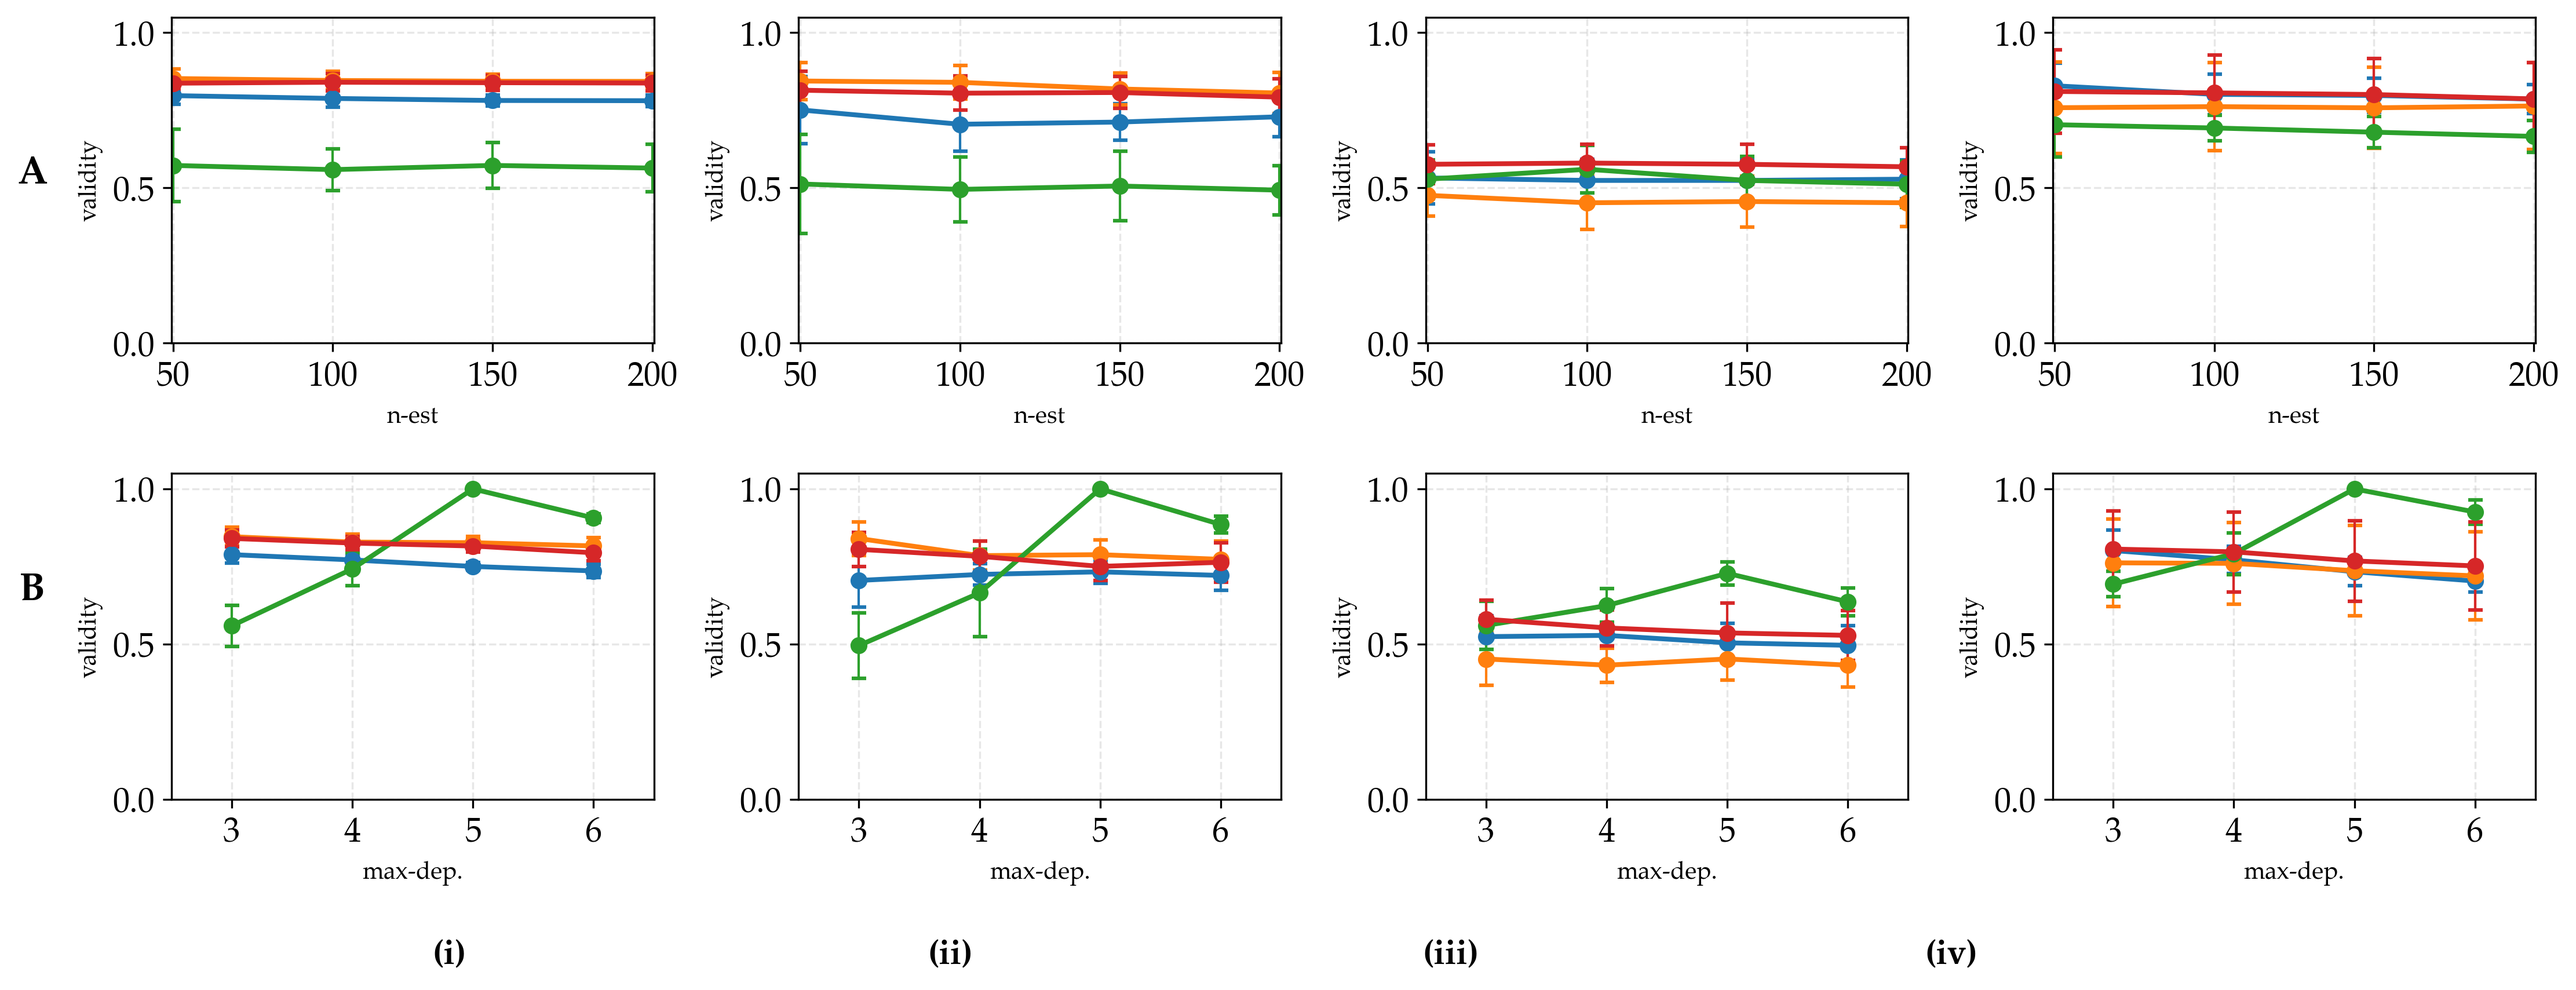
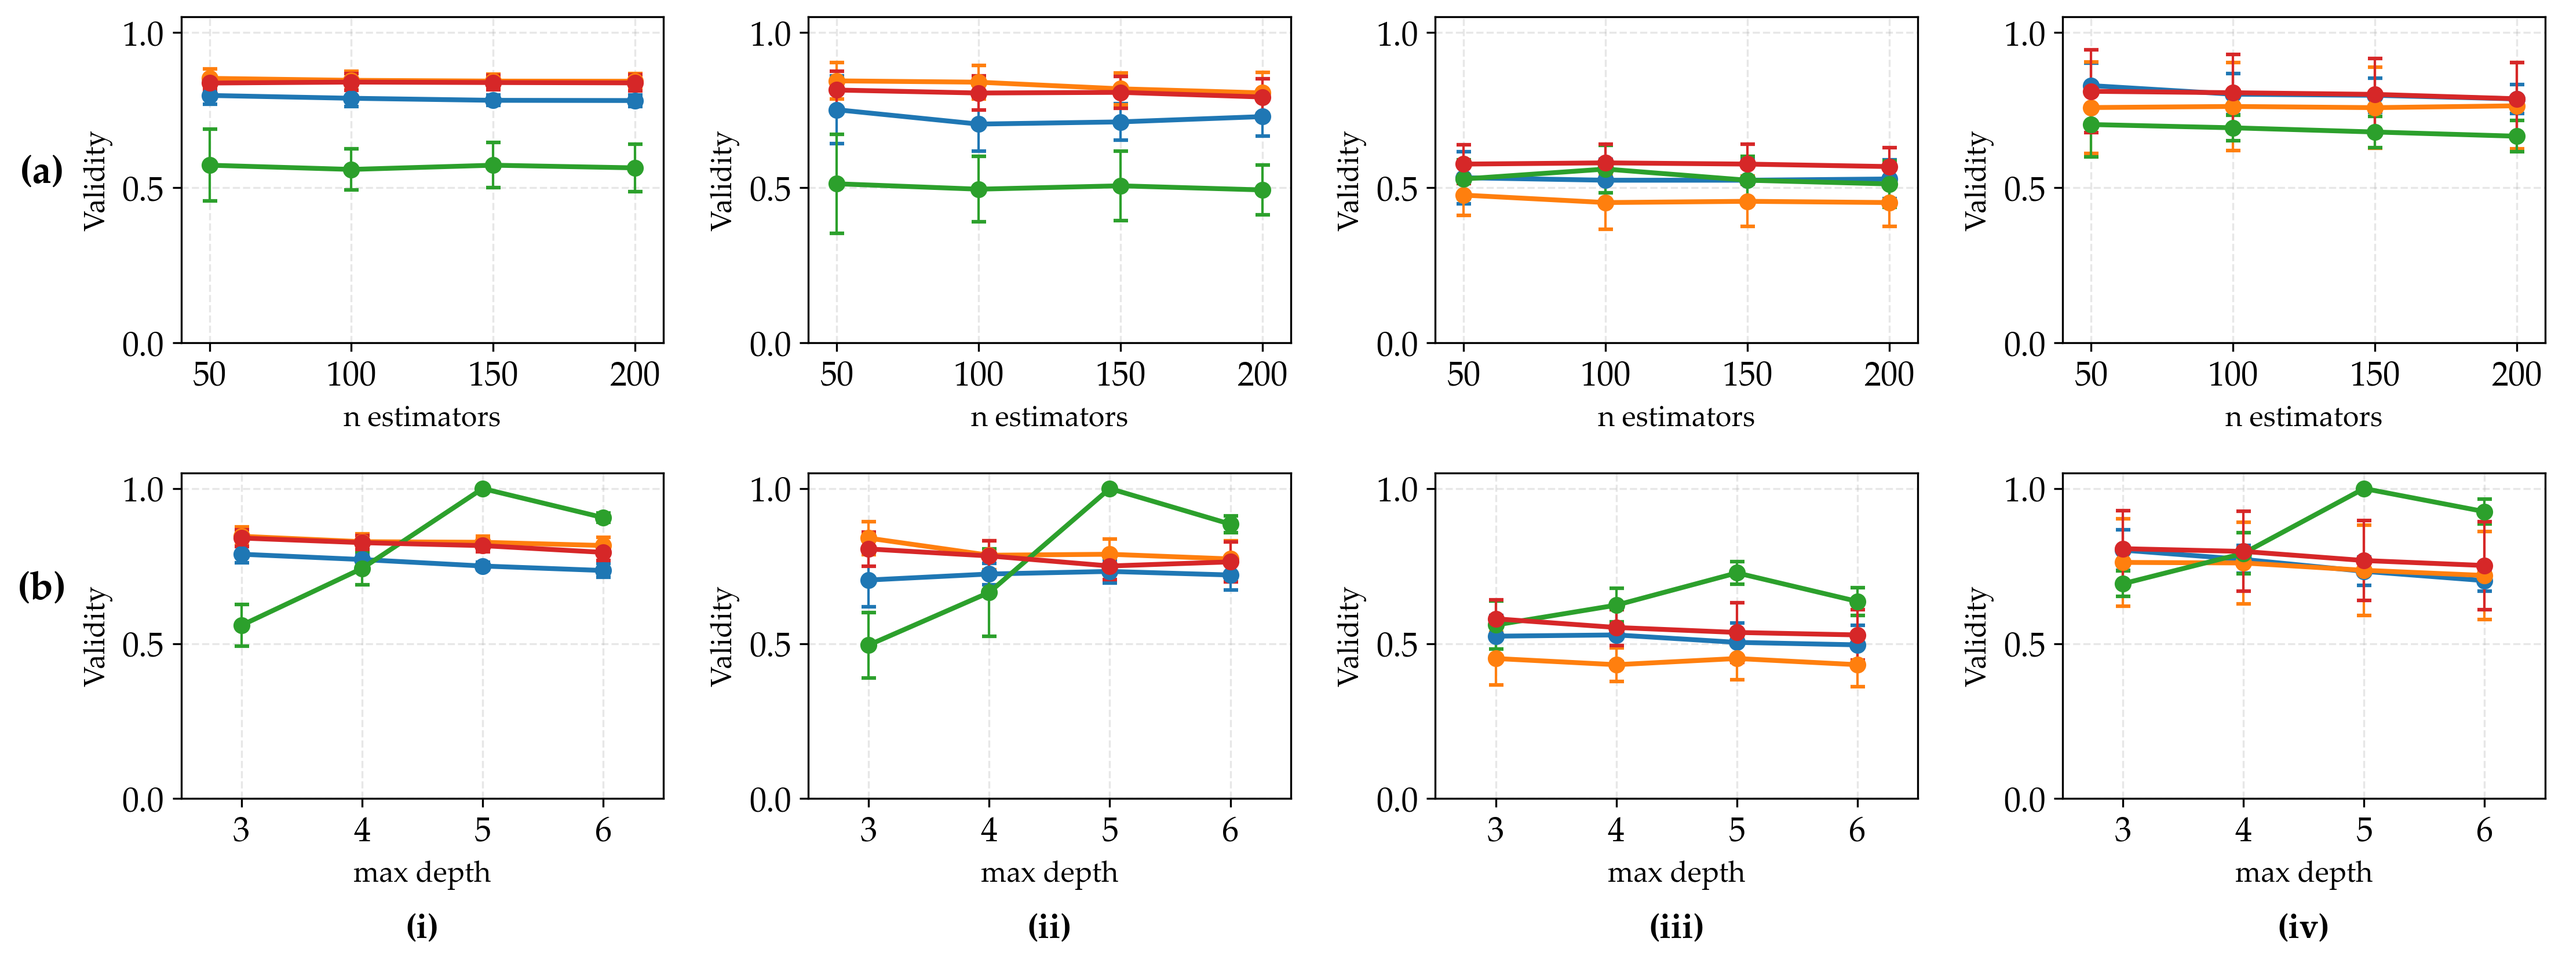
updated the formatting of the plots.

diff --git a/visualize_data_line_plots.py b/visualize_data_line_plots.py
@@ -257,26 +257,29 @@ def create_data_perturbation_grid_plot(datasets, save_dir="visualizations"):
     for row in range(3):
         for col in range(4):
             ax = axes[row, col]
-            ax.set_ylabel('validity', fontsize=10)
+            ax.set_ylabel('Validity', fontsize=12)
     
     # Add x-axis labels to all subplots
     for row in range(3):
         for col in range(4):
             ax = axes[row, col]
-            ax.set_xlabel('Pct%', fontsize=10)
+            ax.set_xlabel('Perturbed data%', fontsize=12)
     
     # Add some space to the left and between rows, adjust layout
     plt.subplots_adjust(left=0.1, right=0.95, top=0.95, bottom=0.15, hspace=0.4, wspace=0.3)
     
     # Add master roman numerals at the bottom for each column
     roman_numerals = ['(i)', '(ii)', '(iii)', '(iv)']
+    # Position roman numerals below the x-axis labels of the bottom row (row 2)
     for col in range(4):
-        # Position at bottom of entire figure for each column - closer to x-axis labels
-        fig.text(0.2 + col * 0.18, 0.08, roman_numerals[col], fontsize=14, weight='bold', 
-                ha='center', va='center')
+        # Get the bottom row subplot for this column
+        bottom_ax = axes[2, col]  # Bottom row (index 2)
+        # Position roman numeral centered below this subplot's x-axis label with more space
+        bottom_ax.text(0.5, -0.35, roman_numerals[col], transform=bottom_ax.transAxes,
+                      ha='center', va='top', fontsize=14, weight='bold')
     
     # Add row labels to the left of the y-axis labels using the added space
-    row_labels = ['A', 'B', 'C']
+    row_labels = ['(a)', '(b)', '(c)']
     for row in range(3):
         fig.text(0.05, 0.85 - row * 0.27, row_labels[row], fontsize=16, weight='bold', 
                 ha='center', va='center')
@@ -297,7 +300,7 @@ def create_heloc_perturbation_grid_plot(save_dir="visualizations"):
     dataset_name = 'heloc'
     
     # Create figure with 1x4 subplots
-    fig, axes = plt.subplots(1, 4, figsize=(16, 2))  # Reduced height from 2.5 to 2
+    fig, axes = plt.subplots(1, 4, figsize=(16, 5))  # Increased height by 3 points for better spacing
     
     # Colors for methods
     colors = {
@@ -357,22 +360,25 @@ def create_heloc_perturbation_grid_plot(save_dir="visualizations"):
     # Add y-axis labels to all subplots
     for col in range(4):
         ax = axes[col]
-        ax.set_ylabel('validity', fontsize=10)
+        ax.set_ylabel('Validity', fontsize=12)
     
     # Add x-axis labels to all subplots
     for col in range(4):
         ax = axes[col]
-        ax.set_xlabel('Pct%', fontsize=10)
+        ax.set_xlabel('Perturbed data%', fontsize=12)
     
-    # Add some space to the left and adjust layout
-    plt.subplots_adjust(left=0.1, right=0.95, top=0.85, bottom=0.3, wspace=0.3)
+    # Add some space to the left and adjust layout with adequate bottom margin
+    plt.subplots_adjust(left=0.1, right=0.95, top=0.85, bottom=0.35, wspace=0.3)
     
     # Add master roman numerals at the bottom for each column
     roman_numerals = ['(i)', '(ii)', '(iii)', '(iv)']
+    # Position roman numerals below the x-axis labels of each subplot with proper spacing
     for col in range(4):
-        # Position at bottom of entire figure for each column
-        fig.text(0.2 + col * 0.18, 0.1, roman_numerals[col], fontsize=14, weight='bold', 
-                ha='center', va='center')
+        # Get the subplot for this column
+        ax = axes[col]
+        # Position roman numeral well below the x-axis label to ensure proper hierarchy
+        ax.text(0.5, -0.25, roman_numerals[col], transform=ax.transAxes,
+               ha='center', va='top', fontsize=14, weight='bold')
     
     # Save the grid plot
     os.makedirs(save_dir, exist_ok=True)

diff --git a/create_model_validity_plots.py b/create_model_validity_plots.py
@@ -364,7 +364,8 @@ def create_model_perturbation_grid_plots(datasets, save_dir="visualizations"):
                         if all_x_values:
                             unique_x = sorted(set(all_x_values))
                             ax.set_xticks(unique_x)
-                            ax.set_xlim(min(unique_x) - 0.5, max(unique_x) + 0.5)
+                            # Add more padding for n_estimators plots (values like 50, 100, 200)
+                            ax.set_xlim(min(unique_x) - 10, max(unique_x) + 10)
                     else:
                         all_x_values = []
                         for model_type, data in sorted(model_params.items()):
@@ -386,29 +387,32 @@ def create_model_perturbation_grid_plots(datasets, save_dir="visualizations"):
         for row in range(2):
             for col in range(4):
                 ax = axes[row, col]
-                ax.set_ylabel('validity', fontsize=10)
+                ax.set_ylabel('Validity', fontsize=12)
         
         # Add x-axis labels based on row
         for row in range(2):
             for col in range(4):
                 ax = axes[row, col]
                 if row == 0:  # First row - n_estimators
-                    ax.set_xlabel('n-est', fontsize=10)
+                    ax.set_xlabel('n estimators', fontsize=12)
                 else:  # Second row - max_depth
-                    ax.set_xlabel('max-dep.', fontsize=10)
+                    ax.set_xlabel('max depth', fontsize=12)
         
         # Add some space to the left and between rows, adjust layout
         plt.subplots_adjust(left=0.1, right=0.95, top=0.95, bottom=0.2, hspace=0.4, wspace=0.3)
         
         # Add master roman numerals at the bottom for each column
         roman_numerals = ['(i)', '(ii)', '(iii)', '(iv)']
+        # Position roman numerals below the x-axis labels of the bottom row (row 1)
         for col in range(4):
-            # Position at bottom of entire figure for each column
-            fig.text(0.2 + col * 0.18, 0.05, roman_numerals[col], fontsize=14, weight='bold', 
-                    ha='center', va='center')
+            # Get the bottom row subplot for this column
+            bottom_ax = axes[1, col]  # Bottom row (index 1)
+            # Position roman numeral centered below this subplot's x-axis label with more space
+            bottom_ax.text(0.5, -0.35, roman_numerals[col], transform=bottom_ax.transAxes,
+                          ha='center', va='top', fontsize=14, weight='bold')
         
         # Add row labels to the left of the y-axis labels using the added space
-        row_labels = ['A', 'B']
+        row_labels = ['(a)', '(b)']
         for row in range(2):
             fig.text(0.05, 0.8 - row * 0.4, row_labels[row], fontsize=16, weight='bold', 
                     ha='center', va='center')
